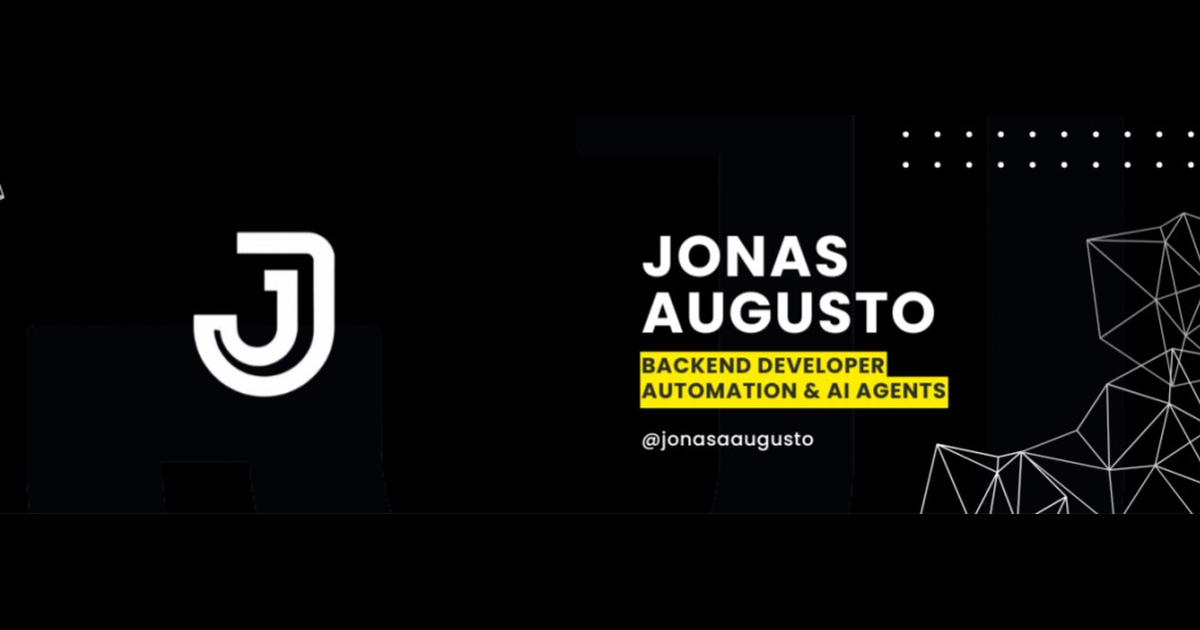
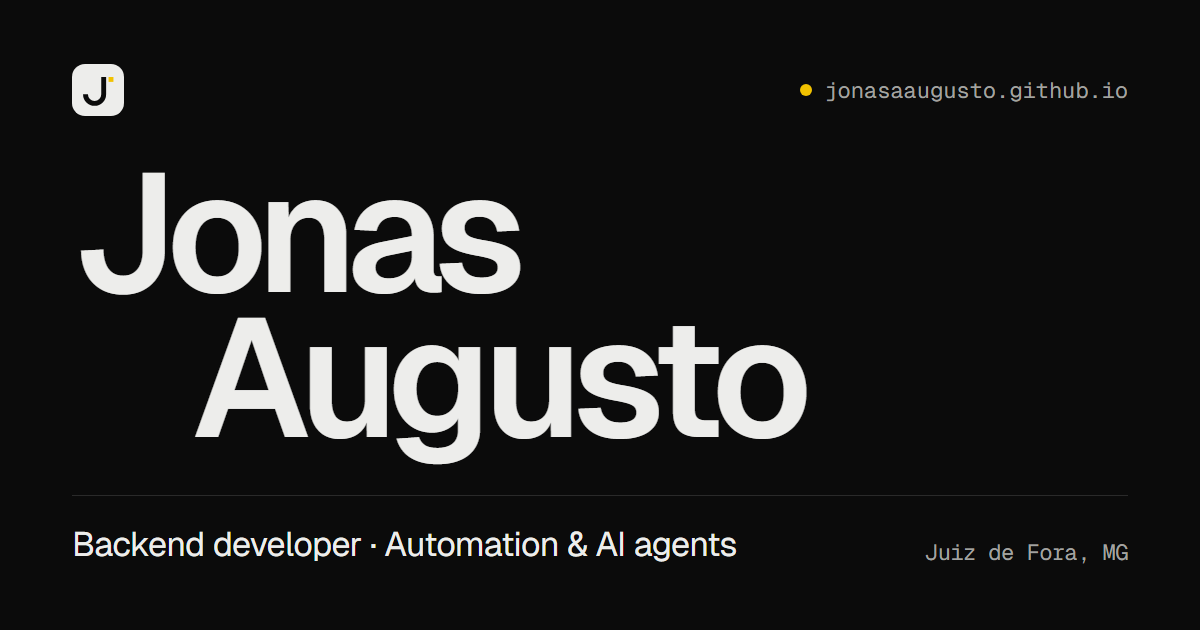
feat(portfolio-v2): hora local ao vivo no hero, og-image no novo estilo, lead do estudo de caso menor

diff --git a/index.html b/index.html
@@ -14,12 +14,12 @@
   <meta property="og:type" content="website">
   <meta property="og:title" content="Jonas Augusto | Desenvolvedor Backend · Automação & Agentes de IA">
   <meta property="og:description" content="Agentes de IA e automações no WhatsApp, apps internos e sistemas web B2B em produção.">
-  <meta property="og:image" content="https://jonasaaugusto.github.io/assets/img/og-image.png">
+  <meta property="og:image" content="https://jonasaaugusto.github.io/assets/img/og-image.png?v=2">
   <meta property="og:image:width" content="1200">
   <meta property="og:image:height" content="630">
   <meta property="og:url" content="https://jonasaaugusto.github.io/">
   <meta name="twitter:card" content="summary_large_image">
-  <meta name="twitter:image" content="https://jonasaaugusto.github.io/assets/img/og-image.png">
+  <meta name="twitter:image" content="https://jonasaaugusto.github.io/assets/img/og-image.png?v=2">
 
   <!-- Tema antes da pintura: localStorage('theme'), senão prefers-color-scheme -->
   <script>
@@ -113,6 +113,7 @@
           <dt data-en="Internship">Estágio</dt><dd data-en="Development and automation, F5 Tecnologia">Desenvolvimento e automação, F5 Tecnologia</dd>
           <dt data-en="Focus">Foco</dt><dd data-en="Backend, automation and AI agents">Backend, automação e agentes de IA</dd>
           <dt data-en="Based in">Base</dt><dd data-en="Juiz de Fora, MG · Remote">Juiz de Fora, MG · Remoto</dd>
+          <dt data-en="Local time">Hora local</dt><dd><time id="local-time" class="mono">--:--</time> <span data-en="in Juiz de Fora (UTC−3)">em Juiz de Fora (UTC−3)</span></dd>
         </dl>
       </div>
     </section>

diff --git a/js/site.js b/js/site.js
@@ -188,6 +188,16 @@
   var cvLangBtn = d.getElementById('cv-lang-btn');
   if (cvLangBtn) cvLangBtn.addEventListener('click', function () { setCv(cvLang === 'pt' ? 'en' : 'pt'); });
 
+  /* ---------- hora local de Juiz de Fora ---------- */
+  var clock = d.getElementById('local-time');
+  function tickClock() {
+    try {
+      var t = new Intl.DateTimeFormat('pt-BR', { hour: '2-digit', minute: '2-digit', timeZone: 'America/Sao_Paulo' }).format(new Date());
+      clock.textContent = t; clock.setAttribute('datetime', t);
+    } catch (e) { clock.parentNode.parentNode && (clock.textContent = ''); }
+  }
+  if (clock) { tickClock(); setInterval(tickClock, 15000); }
+
   /* ---------- formulário ---------- */
   var form = d.getElementById('contact-form'), submit = d.getElementById('submit-btn');
   if (form) form.addEventListener('submit', function () {

diff --git a/css/site.css b/css/site.css
@@ -461,7 +461,7 @@ dialog::backdrop { background: rgba(8, 8, 8, .6); }
 .cv-dialog iframe { flex: 1; width: 100%; border: 0; background: #e5e5e5; }
 .dlg-foot { display: flex; justify-content: flex-end; padding: 12px 16px; border-top: 1px solid var(--line); }
 
-.case-lead { font-size: var(--t-lead); line-height: 1.35; letter-spacing: -.015em; max-width: 46ch; }
+.case-lead { font-size: clamp(1.125rem, 1rem + .5vw, 1.375rem); line-height: 1.45; letter-spacing: -.015em; max-width: 46ch; }
 .case h3 { font-size: clamp(1.375rem, 1.1rem + 1vw, 2rem); font-weight: 600; letter-spacing: -.035em; margin: 56px 0 16px; padding-top: 20px; border-top: 1px solid var(--line); }
 .case p { color: var(--soft); max-width: 70ch; margin-bottom: 14px; }
 .case ul { display: grid; gap: 10px; margin-bottom: 14px; max-width: 72ch; }
